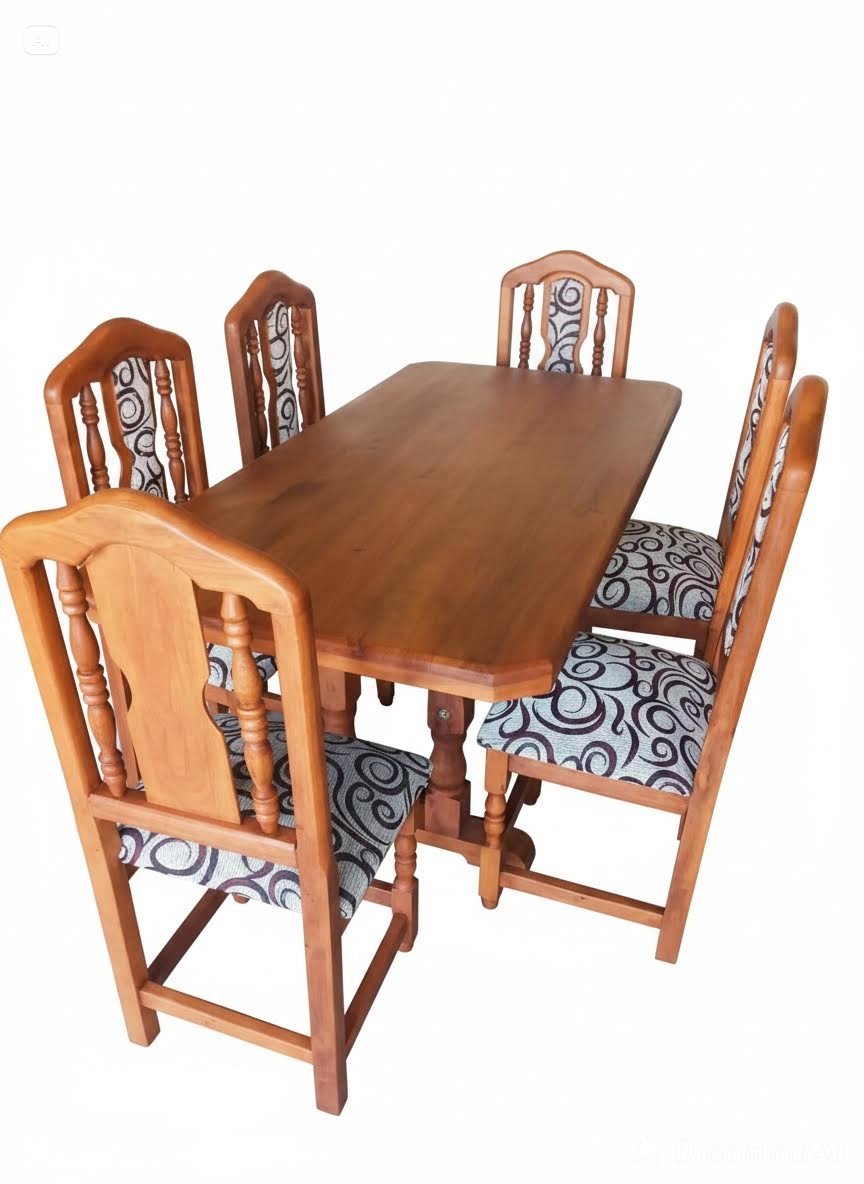
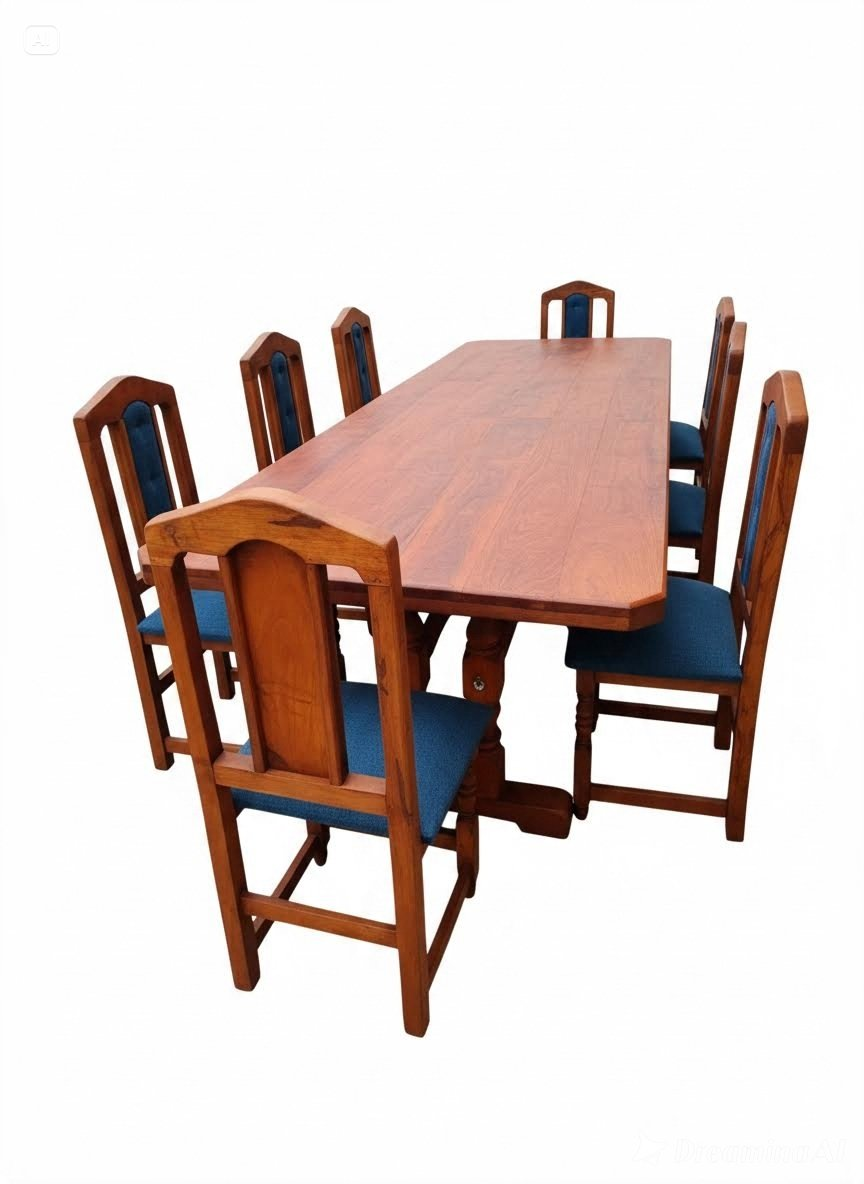
algarroboActuaizacion

diff --git a/algarrobo.html b/algarrobo.html
@@ -289,7 +289,9 @@
                         title: 'Cama de 2 plazas',
                         image: 'img/detalles/camaSimpleLargo.jpg',
                         detailImage: 'img/detalles/camaSimpleLargo.jpg',
-                        alt: 'Cama de 2 Plazas'
+                        alt: 'Cama de 2 Plazas',
+                        // Ejemplo de galería: reemplazar estas rutas por las 3 vistas reales del producto.
+                       
                     },
                     {
                         title: 'Cama de 2 Plazas Doble Respaldo',
@@ -298,10 +300,20 @@
                         alt: 'Cama de 2 Plazas Doble Respaldo'
                     },
                     {
-                        title: 'Futón de Algarrobo',
-                        image: 'img/detalles/futon.jpg',
-                        detailImage: 'img/detalles/futon.jpg',
-                        alt: 'Futón de Algarrobo'
+                        title: 'Juego de Comedor Redondo Con Sillas Tapizadas',
+                        image: 'img/detalles/algarroboComedorRedondoTres.jpeg',
+                        detailImage: 'img/detalles/algarroboComedorRedondoTres.jpeg',
+                        alt: 'Juego de Comedor Redondo Con Sillas Tapizadas',
+                         gallery: [
+                            {
+                                src: 'img/detalles/algarroboComedorRedondo.jpeg',
+                                alt: 'Juego De Comedor Redondo de Algarrobo - vista alternativa 1'
+                            },
+                            {
+                                src: 'img/detalles/algarroboComedorRedondoDos.jpeg',
+                                alt: 'Juego De Comedor Redondo de Algarrobo - vista alternativa 2'
+                            }
+                        ]     
                     },
                     {
                         title: 'Bajo Mesada de Algarrobo',
@@ -316,24 +328,48 @@
                         alt: 'Alacena de Algarrobo'
                     },
                     {
-                        title: 'Juego de Comedor Rectangular',
+                        title: 'Juego de Comedor Rectangular Con Sillas Tapizadas',
                         image: 'img/detalles/juegoDeComedor.jpeg',
                         detailImage: 'img/detalles/juegoDeComedor.jpeg',
                         alt: 'Juego de Comedor Rectangular'
                     },
                     {
-                        title: 'Juego de Living',
+                        title: 'Juego de Living Con Almohadones y Mesa Ratona',
                         image: 'img/detalles/juegoDeLiving.jpeg',
-                        detailImage: 'img/detalles/juegoDeLiving.jpeg',
-                        alt: 'Juego de Living'
+                        detailImage: 'img/detalles/algarroboLivingUno.jpeg',
+                        alt: 'Juego de Living',
+                         gallery: [
+                            {
+                                src: 'img/detalles/algarroboLivingDos.jpeg',
+                                alt: 'Juego De Living - vista alternativa 1'
+                            },
+                            {
+                                src: 'img/detalles/algarroboLivingTres.jpeg',
+                                alt: 'Juego De Living - vista alternativa 2'
+                            },
+                            {
+                                src: 'img/detalles/algarroboLivingCuatro.jpeg',
+                                alt: 'Juego De Living - vista alternativa 3'
+                            },
+                            {
+                                src: 'img/detalles/algarroboLivingCinco.jpeg',
+                                alt: 'Juego De Living - vista alternativa 4'
+                            }
+                        ]     
                     },
                     {
-                        title: 'Modular de Algarrobo',
-                        image: 'img/detalles/modularAlgarrobo.jpeg',
-                        detailImage: 'img/detalles/modularAlgarrobo.jpeg',
-                        alt: 'Modular de Algarrobo'
+                        title: 'Bar de Algarrobo',
+                        image: 'img/detalles/algarroboBar.jpeg',
+                        detailImage: 'img/detalles/algarroboBar.jpeg',
+                        alt: 'Bar de Algarrobo'
                     },
                     {
+                        title: 'Placard de Algarrobo',
+                        image: 'img/detalles/placardeAlgarrobo.jpeg',
+                        detailImage: 'img/detalles/placardeAlgarrobo.jpeg',
+                        alt: 'Placard de Algarrobo'
+                    },
+                     {
                         title: 'Placard de Algarrobo',
                         image: 'img/detalles/placardeAlgarrobo.jpeg',
                         detailImage: 'img/detalles/placardeAlgarrobo.jpeg',

diff --git a/js/main.js b/js/main.js
@@ -178,7 +178,7 @@
                             '</a>' +
                         '</div>' +
                         '<div class="service-text">' +
-                            '<h3>' + label + ' <i class="fa fa-chevron-right"></i></h3>' +
+                            '<h3>' + label + ' </h3>' +
                         '</div>' +
                     '</div>' +
                 '</div>';
